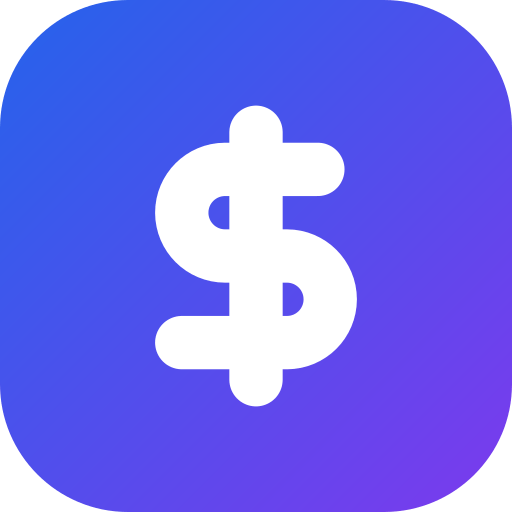
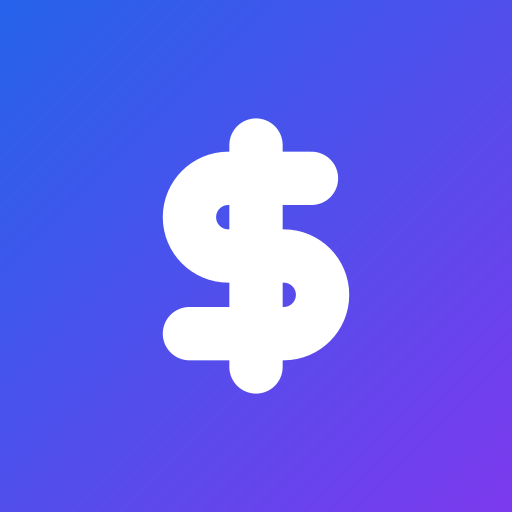
improve mobile UX

diff --git a/generate-icons.js b/generate-icons.js
@@ -3,55 +3,32 @@ const path = require('path');
 const sharp = require('./node_modules/sharp');
 
 /**
- * Generates the Money Ledger brand icon SVG with exact brand colors & vectors
+ * Generates the Money Ledger brand icon SVG with exact brand colors & vectors.
+ * For mobile app icons (Android adaptive maskable, standard launcher, and iOS),
+ * the background gradient is full-bleed edge-to-edge so the operating system launcher
+ * (Samsung One UI, Google Pixel, iOS) applies its native squircle/rounded mask cleanly
+ * without any dark edges or double-corner artifacts.
+ *
  * @param {number} size - Output pixel dimension
- * @param {boolean} maskable - If true, adds 18% safe padding for Android adaptive maskable icons
+ * @param {boolean} maskable - If true, scales the central symbol into the 60% safe zone
  */
 function createSvg(size, maskable = false) {
-    if (maskable) {
-        // Android maskable icons require the graphic to be inside the central 80% circle
-        const pad = Math.round(size * 0.12);
-        const innerSize = size - pad * 2;
-        const radius = Math.round(innerSize * 0.25);
-        const scale = (innerSize / 24) * 0.58;
-        const strokeWidth = (2.5 / 24) * innerSize;
-        const center = size / 2;
+    // For maskable / mobile launcher icons, safe zone scale is ~50% of the canvas
+    const scaleFactor = maskable ? 0.50 : 0.52;
+    const scale = (size / 24) * scaleFactor;
+    const strokeWidth = (2.5 / 24) * size;
+    const center = size / 2;
 
-        return `<svg xmlns="http://www.w3.org/2000/svg" viewBox="0 0 ${size} ${size}" width="${size}" height="${size}">
-  <defs>
-    <linearGradient id="bgMask" x1="0%" y1="0%" x2="100%" y2="100%">
-      <stop offset="0%" style="stop-color:#2563eb"/>
-      <stop offset="100%" style="stop-color:#7c3aed"/>
-    </linearGradient>
-  </defs>
-  <!-- Full background for adaptive mask trimming -->
-  <rect width="${size}" height="${size}" fill="#0f172a"/>
-  <!-- Rounded gradient badge within safe zone -->
-  <rect x="${pad}" y="${pad}" width="${innerSize}" height="${innerSize}" rx="${radius}" ry="${radius}" fill="url(#bgMask)"/>
-  <!-- Dollar sign SVG path centered -->
-  <g transform="translate(${center},${center}) scale(${scale}) translate(-12,-12)">
-    <path d="M12 2v20M17 5H9.5a3.5 3.5 0 0 0 0 7h5a3.5 3.5 0 0 1 0 7H6"
-          fill="none"
-          stroke="#ffffff"
-          stroke-width="${strokeWidth / scale}"
-          stroke-linecap="round"
-          stroke-linejoin="round"/>
-  </g>
-</svg>`;
-    } else {
-        const radius = Math.round(size * 0.25);
-        const scale = (size / 24) * 0.58;
-        const strokeWidth = (2.5 / 24) * size;
-        const center = size / 2;
-
-        return `<svg xmlns="http://www.w3.org/2000/svg" viewBox="0 0 ${size} ${size}" width="${size}" height="${size}">
+    return `<svg xmlns="http://www.w3.org/2000/svg" viewBox="0 0 ${size} ${size}" width="${size}" height="${size}">
   <defs>
     <linearGradient id="bg" x1="0%" y1="0%" x2="100%" y2="100%">
       <stop offset="0%" style="stop-color:#2563eb"/>
       <stop offset="100%" style="stop-color:#7c3aed"/>
     </linearGradient>
   </defs>
-  <rect width="${size}" height="${size}" rx="${radius}" ry="${radius}" fill="url(#bg)"/>
+  <!-- Edge-to-edge full-bleed gradient: OS launcher masks the squircle cleanly -->
+  <rect width="${size}" height="${size}" fill="url(#bg)"/>
+  <!-- Centered Dollar sign vector within safe zone -->
   <g transform="translate(${center},${center}) scale(${scale}) translate(-12,-12)">
     <path d="M12 2v20M17 5H9.5a3.5 3.5 0 0 0 0 7h5a3.5 3.5 0 0 1 0 7H6"
           fill="none"
@@ -61,7 +38,6 @@ function createSvg(size, maskable = false) {
           stroke-linejoin="round"/>
   </g>
 </svg>`;
-    }
 }
 
 async function buildIcons() {

diff --git a/sw.js b/sw.js
@@ -3,7 +3,7 @@
  * Provides offline shell caching, instant startup, and PWA standalone support
  */
 
-const CACHE_NAME = 'money-ledger-v1';
+const CACHE_NAME = 'money-ledger-v2';
 const STATIC_ASSETS = [
     '/',
     '/index.html',
